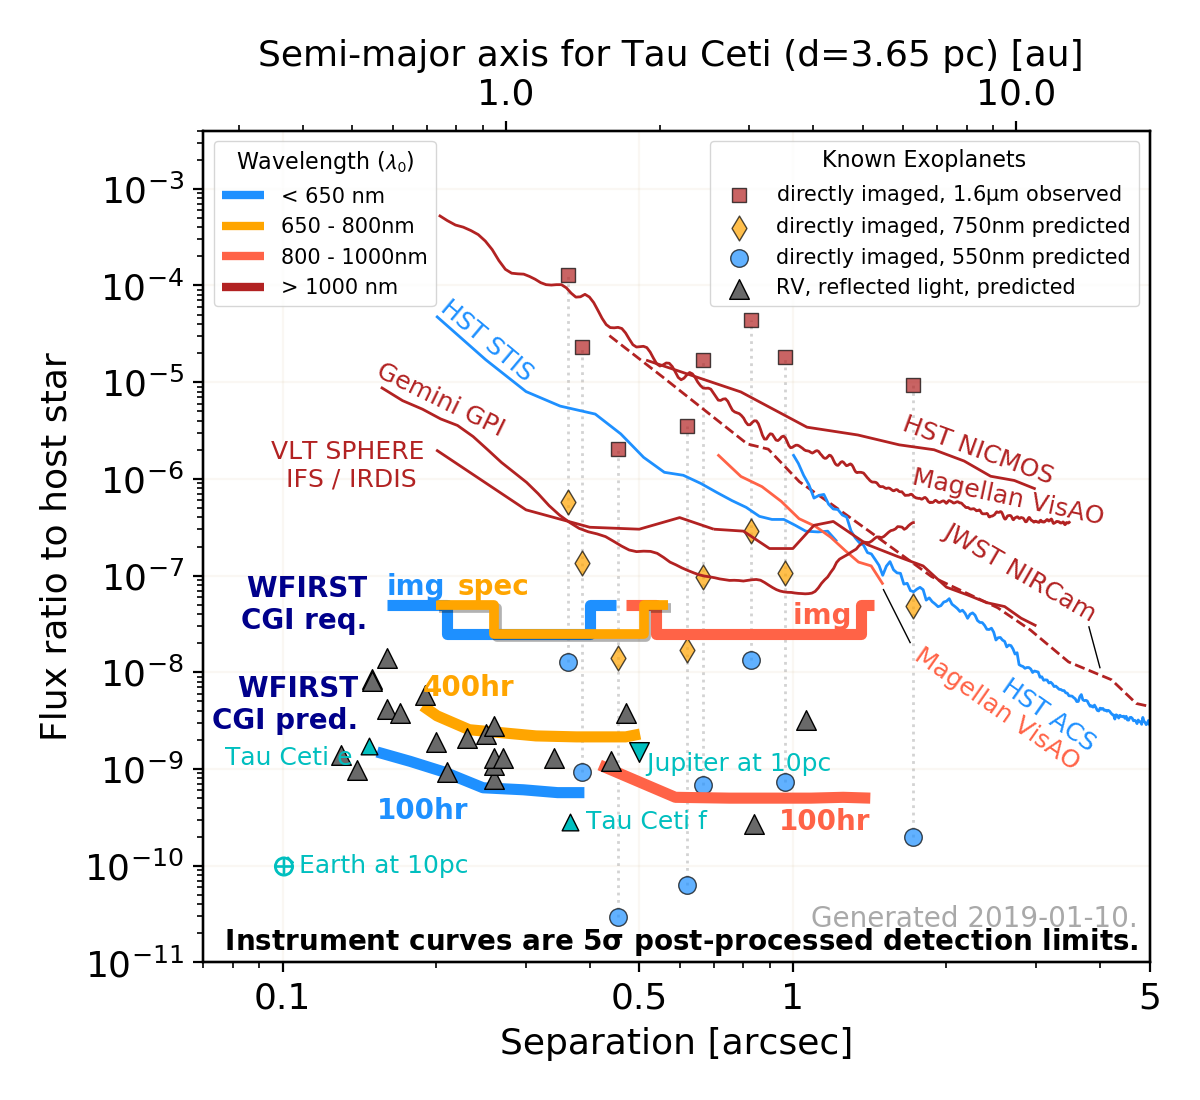
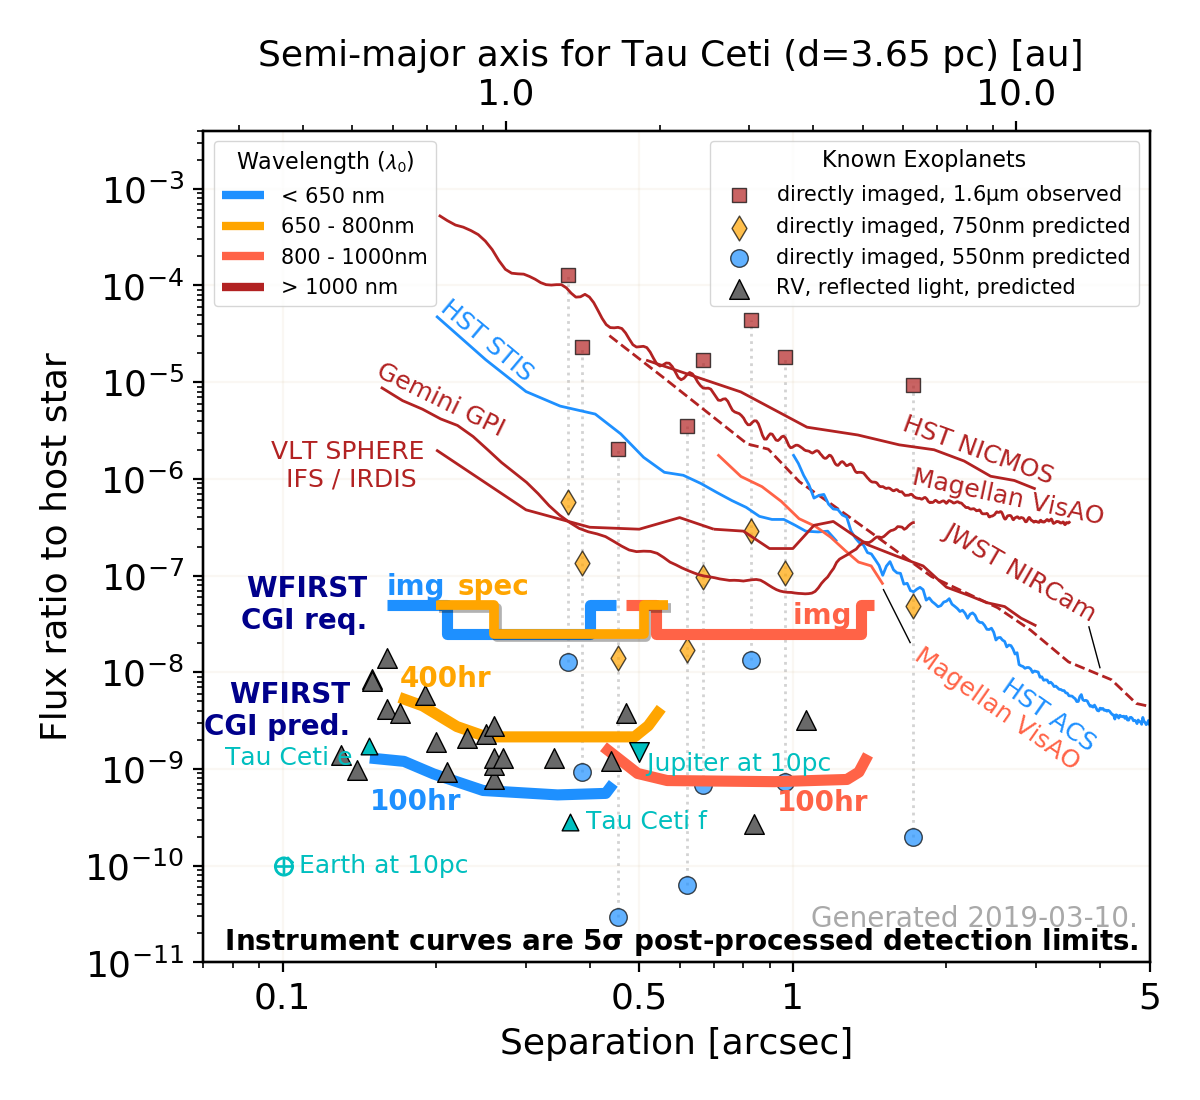
minor CGI performance updates from Feb 2019 Spreadsheet; include pred closer to IWA and OWA

Changed region(s): [[0.3083, 0.5873, 0.74, 0.7727], [0.1542, 0.6182, 0.3083, 0.68]]

diff --git a/plot_flux_ratio.py b/plot_flux_ratio.py
@@ -380,16 +380,16 @@ if cfg['pred_wide_img'] is True:
             horizontalalignment='left', verticalalignment='bottom', weight='bold', fontsize=ccfs+1)
     if cfg['exp_t'] is True:
         if cfg['req_wide_img'] is False:
-            ax1.text(dat['Rho(as)'][-1], 0.8*dat['contr_snr5'][-1], \
+            ax1.text(dat['Rho(as)'][-1], 0.8*dat['contr_snr5'][-3], \
             'img, %ghr'%(dat['t_int_hr'][0]), color=c_band4, weight='bold',\
             horizontalalignment='center', verticalalignment='top', fontsize=ccfs+1)
         else:
-            ax1.text(dat['Rho(as)'][-1], 0.8*dat['contr_snr5'][-1], \
+            ax1.text(dat['Rho(as)'][-1], 0.8*dat['contr_snr5'][-3], \
             '%ghr'%(dat['t_int_hr'][0],), color=c_band4, weight='bold',\
             horizontalalignment='right', verticalalignment='top', fontsize=ccfs+1)
     else:
         if cfg['req_wide_img'] is False:
-            ax1.text(dat['Rho(as)'][-1], 0.8*dat['contr_snr5'][-1], 'img', color=c_band4, weight='bold',\
+            ax1.text(dat['Rho(as)'][-1], 0.8*dat['contr_snr5'][-3], 'img', color=c_band4, weight='bold',\
                 horizontalalignment='right', verticalalignment='top', fontsize=ccfs+1)
     caption += extract_short_caption(fname)
 
